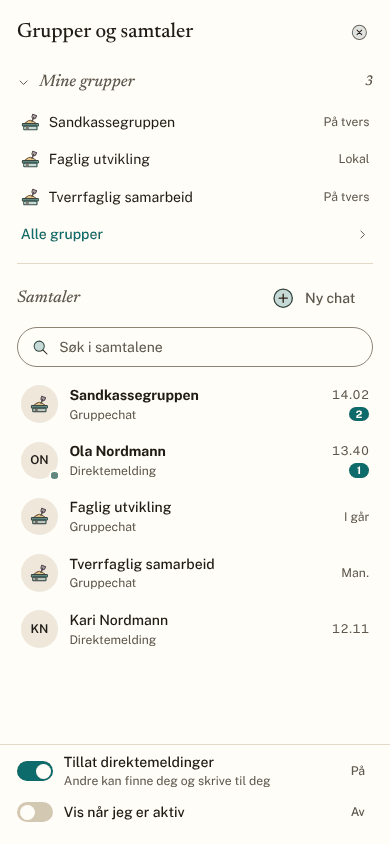
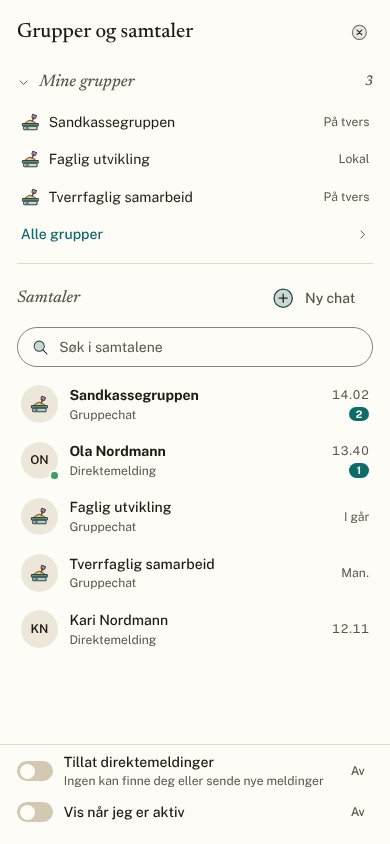
Retter Codex-funn i D0-prototypen
- Tillat direktemeldinger er av som standard
- Fokus flyttes inn i nedtrekk og tilbake til knappen ved Escape
- Escape fra en konkret fortolkning legger ikke til historikk
- Et valg i hovedmenyen lukker den
- Skissene er tatt på nytt

Claude-Session: https://claude.ai/code/session_01LdorMT6WHnamzTbYVghtkt

diff --git a/docs/design/d0-dashboard-chat/prototype/prototype.js b/docs/design/d0-dashboard-chat/prototype/prototype.js
@@ -218,7 +218,7 @@ const STANDARD = () => ({
   chatbredde: null, // rem, satt med kanthåndtaket
   gruppeskuff: true,
   chatParkert: false,
-  dm: true,
+  dm: false, // Tillat direktemeldinger: av som standard (planen §6.2)
   aktivstatus: false,
   hovedmeny: false,
   popover: null, // fagmiljo | konto
@@ -311,7 +311,12 @@ function etterNavigering({ beholdLag = false } = {}) {
     else history.replaceState(history.state, '', `#/grupper/${r.gruppe}`)
   }
   if (r.side === 'chat' && r.samtale) S.chatVisning = r.samtale
-  if (!beholdLag) S.popover = null
+  if (!beholdLag) {
+    S.popover = null
+    // Et valg i hovedmenyen lukker den; chatmenyen kommer tilbake.
+    S.hovedmeny = false
+    S.chatParkert = false
+  }
   render()
   // Etter «Gjenopprett» står fokus i chatmenyen igjen; ellers i sidens overskrift.
   const fokus = S.fokusChat ? '.chatmeny [data-autofokus], .chatmeny button' : 'main h1, main [data-autofokus]'
@@ -333,7 +338,7 @@ function escapeHandling() {
   if (S.modal || (r.side === 'gruppe' && r.flate)) {
     return { tekst: 'Lukker vinduet (bare det øverste laget)', utfor: lukkModal }
   }
-  if (S.popover) return { tekst: 'Lukker nedtrekket', utfor: () => ((S.popover = null), render()) }
+  if (S.popover) return { tekst: 'Lukker nedtrekket, fokus til knappen', utfor: lukkPopover }
   if (S.hovedmeny) return { tekst: 'Lukker hovedmenyen og henter chatmenyen tilbake', utfor: lukkHovedmeny }
   if (r.side === 'chat' && !smal())
     return { tekst: `Gjenoppretter chatmenyen på ${sidetittel(tilbakeMaal())}`, utfor: gjenopprettChat }
@@ -343,7 +348,12 @@ function escapeHandling() {
   }
   if (fokusIDiskusjoner)
     return { tekst: 'Slipper diskusjonsmenyen (som i dag)', utfor: () => document.querySelector('main h1')?.focus() }
-  if (r.side === 'analytt') return { tekst: 'Ett trinn tilbake i fortolkningen', utfor: () => gaa('#/fortolkning') }
+  if (r.side === 'analytt')
+    return {
+      tekst: 'Ett trinn tilbake i fortolkningen',
+      // Et steg tilbake, ikke en ny oppføring i nettleserhistorikken.
+      utfor: () => (tilbakeMaal() === '#/fortolkning' ? tilbake() : gaa('#/fortolkning', { erstatt: true })),
+    }
   if (r.side === 'fortolkning') return { tekst: 'Ingenting: fortolkningssøket er siste stopp', utfor: () => {} }
   if (r.side === 'forside') return { tekst: 'Ingenting på forsiden', utfor: () => {} }
   return { tekst: `Lukker siden og går tilbake til ${sidetittel(tilbakeMaal())}`, utfor: tilbake }
@@ -430,6 +440,13 @@ function lukkModal() {
   document.querySelector(`[data-modalfra="${fra}"]`)?.focus()
 }
 
+function lukkPopover() {
+  const fra = S.popover
+  S.popover = null
+  render()
+  document.querySelector(`[data-handling="popover"][data-arg="${fra}"]`)?.focus()
+}
+
 const HANDLINGER = {
   hovedmeny: () => (S.hovedmeny ? lukkHovedmeny() : apneHovedmeny()),
   'lukk-hovedmeny': lukkHovedmeny,
@@ -450,8 +467,16 @@ const HANDLINGER = {
   dm: () => ((S.dm = !S.dm), render()),
   aktivstatus: () => ((S.aktivstatus = !S.aktivstatus), render()),
   diskusjoner: () => (S.diskusjoner === 'apen' ? ((S.diskusjoner = 'boble'), render()) : apneDiskusjoner()),
-  popover: (arg) => ((S.popover = S.popover === arg ? null : arg), render()),
-  fagmiljo: (arg) => ((S.fagmiljo = arg), (S.popover = null), render()),
+  popover: (arg) => {
+    if (S.popover === arg) return lukkPopover()
+    S.popover = arg
+    render()
+    document.querySelector('.popover button.valg:not([style]), .popover button')?.focus()
+  },
+  fagmiljo: (arg) => {
+    S.fagmiljo = arg
+    lukkPopover()
+  },
   modal: (arg, el) => {
     S.modal = arg
     S.modalFra = el?.dataset.modalfra
@@ -1182,7 +1207,7 @@ const SKJERMER = {
   oppgaver: { navn: 'Oppgaver for gruppen', hash: '#/grupper/sandkasse/oppgaver/o1', fra: ['#/', '#/grupper/sandkasse'] },
   'chat-apen': { navn: 'Chatmeny åpen', hash: '#/', s: { chat: 'apen' } },
   'chat-samtale': { navn: 'Chatmeny med samtale, bred', hash: '#/grupper/sandkasse', fra: ['#/', '#/grupper'], s: { chat: 'apen', chatVisning: 'sandkasse', chatbredde: 32 } },
-  'chat-ny': { navn: 'Ny direktemelding', hash: '#/', s: { chat: 'apen', chatVisning: 'ny' } },
+  'chat-ny': { navn: 'Ny direktemelding', hash: '#/', s: { chat: 'apen', chatVisning: 'ny', dm: true } },
   'chat-sperret': { navn: 'Mottaker tar ikke imot', hash: '#/', s: { chat: 'apen', chatVisning: 'kari' } },
   'chat-helside': { navn: 'Fullsidechat', hash: '#/chat/gruppe/sandkasse', fra: ['#/', '#/grupper/sandkasse'], s: { chatVisning: 'sandkasse' } },
   hovedmeny: { navn: 'Hovedmeny (chat parkert)', hash: '#/', s: { chat: 'apen', hovedmeny: true, chatParkert: true } },
